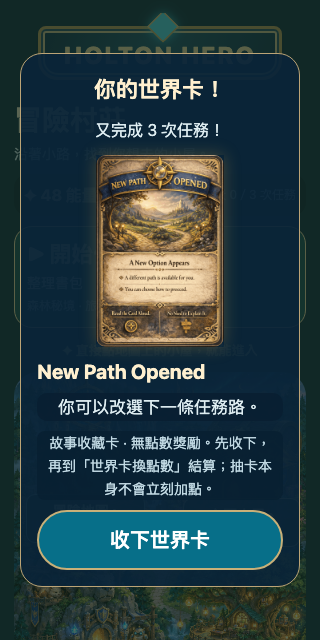
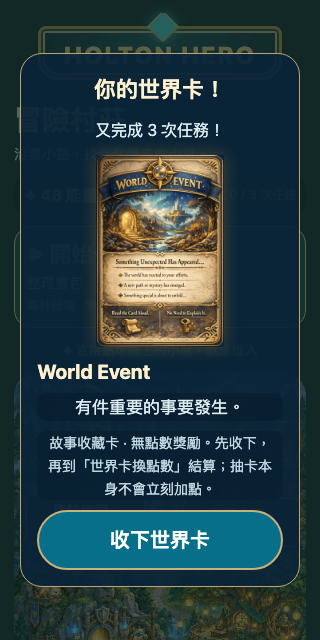
test: verify published world card reveal
actor=bot approval=Jerry22931 trigger=public-verification

Changed region(s): [[0.3125, 0.25, 0.6875, 0.5312], [0.1875, 0.625, 0.7812, 0.6562], [0.0938, 0.5625, 0.6562, 0.5938]]

diff --git a/reports/world-draw/README.md b/reports/world-draw/README.md
@@ -5,3 +5,5 @@ User-approved layout uses supplied black/gold WORLD EVENT CARDS image, preserved
 Compact centered heading/reason, full uncropped card back (up to 140x210), soft gold glow, encouragement, full-width action. Artwork scales with viewport height; modal remains scrollable for short screens and large text. Saved card reveals with a 580ms Y flip after its image loads. Reduced motion skips the flip. Existing draw persistence/randomization/collection/reward rules are untouched. Reloads of revealed draws show the same face directly.
 
 Validation: npm run typecheck; base-path production export; actual isolated Chrome 390/320 x 640 browser suite, screenshots visually inspected. Both buttons/card fit; rapid five-click draw creates only one collection entry, no points awarded; reload keeps exact drawn card; accept dismisses pending draw only; reduced-motion draw passes. No real player storage touched.
+
+Public verification: dc5397a2589c45bbdca75487286ae41a bundle matched; full PUBLIC browser suite PASS; screenshots refreshed and visually inspected. Source85dd34d; Pages668586c retains historical hashed assets for cached clients.
